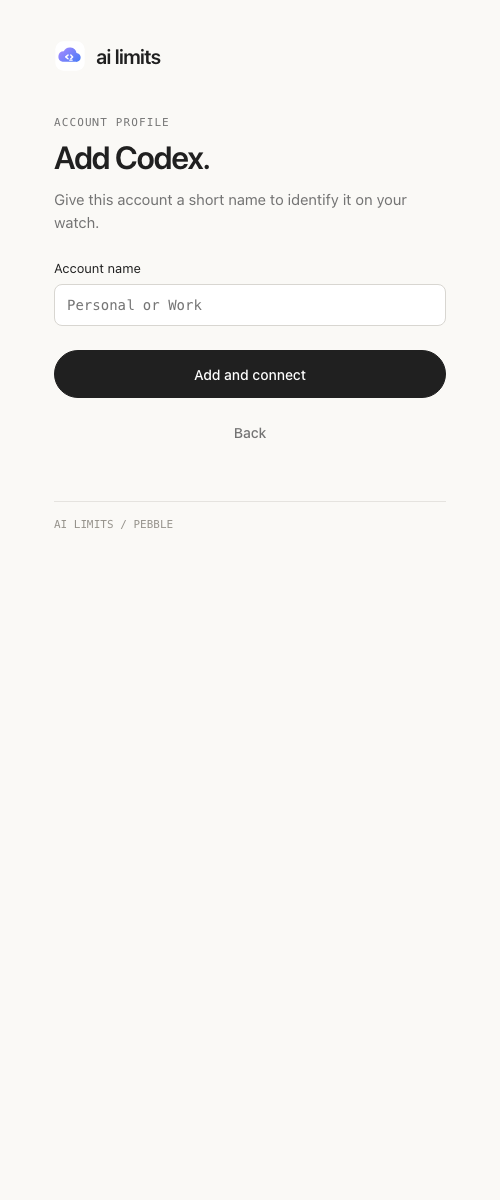
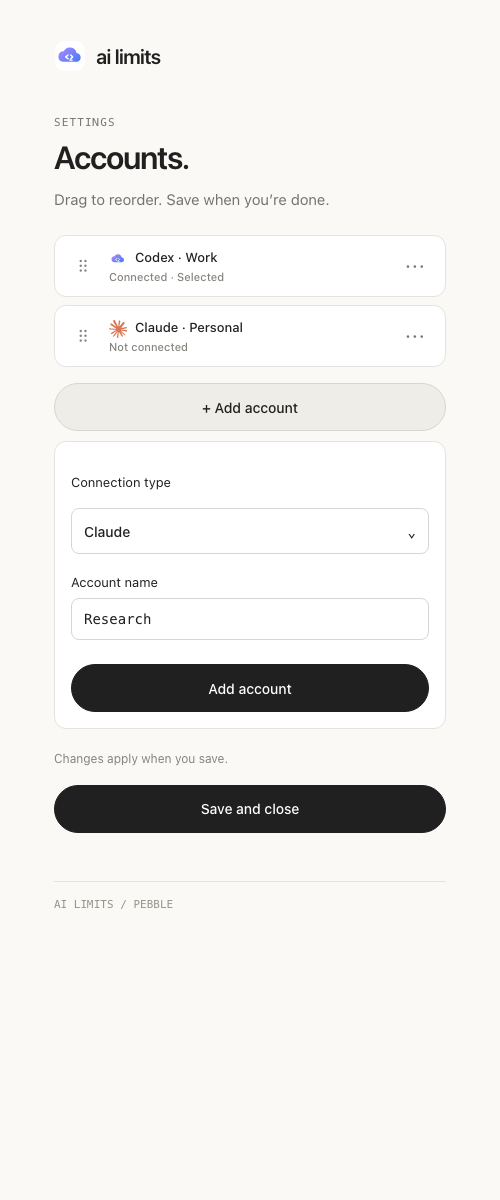
Prepare Pebble Store listing and previews

diff --git a/docs/verification.md b/docs/verification.md
@@ -9,7 +9,7 @@ This document records what the repository can verify automatically and which che
 | JavaScript, C lint, formatting, and tests | `npm run check` | Passing on 18 October 2026 (68 tests) | Tests cover companion account isolation and settings flows, serialized WebView login and expiry, clipboard fallback, resource serialization, and provider parsing. Profile-query tests also enforce one storage load per operation and no profile read when acknowledging an empty delivery queue. JavaScript tests do not execute the C renderer. |
 | Pebble app compilation | `.venv/bin/pebble build` | Passing on 18 October 2026 | Compiles and links all seven configured platforms: aplite, basalt, chalk, diorite, emery, flint, and gabbro. A successful build does not verify behavior on hardware. |
 | Quota display and watch animation | C lint and SDK build | Compiles; visual behavior not verified on device | The shared displayed-percentage policy is in `src/c/model/snapshot.h`. No automated test currently drives the watch renderer or animation timers. |
-| Browser settings rendering | Settings and serialization tests | Passing | Tests check initial account-button structure, escaped labels, generated script syntax, and WebView flows. Existing screenshots cover the account list and standalone pages, not the main inline editing flow. |
+| Browser settings rendering | Settings and serialization tests; `npm run generate:previews:phone` | Passing on 18 October 2026 | Tests check initial account-button structure, escaped labels, generated script syntax, and WebView flows. The screenshot generator checks overflow and exact 500 × 1200 PNG dimensions for account-list, inline account-creation, rename, connection, and device-login captures. |
 | Release packaging | `npm run package:release` and packaging regression test | Passing on 18 October 2026 | Actual SDK bundle: 603,323 → 88,901 bytes. Retained entries are compared byte for byte; ZIP CRCs, seven-platform fixtures, separate source map, repeatability, and invalid-input rejection are tested. Mobile installation of the compressed PBW is not yet verified. |
 | GitHub Actions CI and release publishing | `.github/workflows/ci.yml` plus reusable workflows | Configured; remote run pending | The orchestrator runs reusable check and build workflows in parallel for pushes to `main` and pull requests. Main pushes then call the release workflow after both succeed. npm, pip, the Pebble build environment, and SDK 4.33.1 are cached. Release versions use the `package.json` major/minor and commit count; reruns reuse the same version and skip duplicate publication. Pull requests do not publish. A successful GitHub Actions run is still needed to verify the hosted environment and release upload. |
 | Fresh-checkout setup | README environment creation, dependency installation, and package-copy instructions | Not exercised in a clean environment | The check and build results above use the existing local environment. Fresh setup also requires a separately installed Pebble SDK. |
@@ -26,6 +26,6 @@ This document records what the repository can verify automatically and which che
 
 ## Preview coverage
 
-All seven phone PNGs were checked to be 500 × 1200 pixels on 18 October 2026. They use demonstration data and do not verify provider authentication. Two show the account list; five show standalone pages retained in the code. Captures of the main inline account-creation, rename, connection, and device-login flows are still needed. Watch captures cover all six provider types on all seven SDK platforms, taken from their matching emulators with demonstration data on 18 October 2026. They do not verify provider authentication, physical hardware behavior, or current progress/sync animations. See [preview/README.md](../preview/README.md) for capture coverage and regeneration instructions.
+All six phone PNGs were generated at 500 × 1200 pixels on 18 October 2026. They use demonstration data and do not verify provider authentication. Two show the account list; four show inline account-creation, rename, connection, and device-login flows on the main settings page. Watch captures cover all six provider types on all seven SDK platforms, taken from their matching emulators with demonstration data on 18 October 2026. They do not verify provider authentication, physical hardware behavior, or current progress/sync animations. See [preview/README.md](../preview/README.md) for capture coverage and regeneration instructions.
 
 Run `npm run generate:previews:phone` after settings UI changes. Capture watch screenshots from the appropriate emulator or device and record the actual SDK platform in `preview/README.md`.

diff --git a/docs/store-listing.md b/docs/store-listing.md
@@ -1,0 +1,59 @@
+# Pebble Store listing draft
+
+This draft is ready to enter in the Pebble Developer Dashboard. The dashboard accepts up to five PNG, JPEG, or GIF screenshots per platform; each screenshot must match that platform's display size. All seven supported platform folders already contain current emulator captures in those dimensions.
+
+## Listing details
+
+| Dashboard field | Value |
+| --- | --- |
+| App title | AI Limits |
+| Category | Tools & Utilities |
+| Website URL | https://github.com/sspaceless/pebble-ai-limits |
+| Source code URL | https://github.com/sspaceless/pebble-ai-limits |
+| Support email | Leave blank to use the developer account email |
+| Companion app | None; setup uses the paired Pebble mobile app's app settings |
+| Small and large icons | Optional; allow the store to generate these from the app name |
+| Marketing banner | Optional; omit for the first listing |
+
+The package UUID, app type, version, and target platforms come from `package.json`. Keep the existing UUID for every release. Build the PBW from the release revision before uploading it.
+
+## Description
+
+The text below is plain text and is 929 characters, under the 1,600-character limit.
+
+```text
+AI Limits puts your AI quota status on your Pebble watch. Check subscription usage, configured API caps and reset times at a glance.
+
+Connect Codex, Claude / Claude Code, Gemini CLI, Claude API, Gemini API, or a trusted custom HTTPS quota endpoint. Create multiple named profiles and switch between them with the watch buttons. The companion refreshes data and sends it to the watch; cached values remain visible while an update runs.
+
+Subscription and CLI views show provider-reported remaining or used percentages and reset times. API views show configured request and token caps with their units; they do not claim to show live API consumption. Data refreshes when requested and every five minutes while the watch app is open.
+
+Requires a paired phone with the Pebble mobile app and an internet connection. Credentials are stored in the phone companion's local storage and are sent to the selected provider or custom endpoint.
+```
+
+## Screenshot sets
+
+Use these five real emulator captures for every supported SDK platform. Each platform's files are in `preview/watches/<platform>/`; do not resize or frame them.
+
+| SDK platform | Watch models | Screenshot files |
+| --- | --- | --- |
+| `aplite` | Classic / Steel | `codex.png`, `claude.png`, `gemini.png`, `claude-api.png`, `gemini-api.png` |
+| `basalt` | Time / Time Steel | `codex.png`, `claude.png`, `gemini.png`, `claude-api.png`, `gemini-api.png` |
+| `chalk` | Time Round | `codex.png`, `claude.png`, `gemini.png`, `claude-api.png`, `gemini-api.png` |
+| `diorite` | Pebble 2 | `codex.png`, `claude.png`, `gemini.png`, `claude-api.png`, `gemini-api.png` |
+| `emery` | Time 2 | `codex.png`, `claude.png`, `gemini.png`, `claude-api.png`, `gemini-api.png` |
+| `flint` | Pebble 2 Duo | `codex.png`, `claude.png`, `gemini.png`, `claude-api.png`, `gemini-api.png` |
+| `gabbro` | Round 2 | `codex.png`, `claude.png`, `gemini.png`, `claude-api.png`, `gemini-api.png` |
+
+The custom endpoint is described in the listing but does not fit within the five-screenshot limit alongside the main subscription and API examples. All six provider screens remain available in each preview folder. Captures use demonstration data and do not imply provider endorsement or verify authentication.
+
+## Dashboard handoff checklist
+
+- [ ] Create the watchapp with the title, category, website, and source URLs above.
+- [ ] Upload the PBW built from the intended release revision and publish that release.
+- [ ] Create one asset collection for each of the seven supported platforms, using its five matching screenshots and the description above.
+- [ ] Choose the desired listing visibility and publish the listing.
+
+Icons and a banner are optional in the current submission guide. The store can generate missing icons. This repository contains no store-ready banner, so omit it unless a designed marketing image is added later.
+
+Requirements checked against [Preparing a Submission](https://developer.repebble.com/guides/appstore-publishing/preparing-a-submission/) on 18 October 2026. The listing itself has not been created or published.

diff --git a/README.md b/README.md
@@ -207,11 +207,23 @@ npm run check:gemini
 
 These checks never print credentials or save them to this repository. The Gemini check refreshes an access token in memory if necessary, then reads account/quota metadata without changing the CLI credential file.
 
-The automated tests cover provider parsing, missing data, model selection, API caps versus remaining quota, Google pagination, OAuth imports/renewal, source timestamps, account isolation, migration, renaming, deletion, independent token rotation, login binding, cancellation, switching during requests, account reordering, staying on the settings page during edits, and atomic settings saves without overwriting renewed credentials. Codex has been checked against a real account. Retained emulator previews cover Claude and Gemini CLI on Classic, Time, and Time Round using simulated data. Current Codex, API-cap, progress-animation, and sync-rotation captures still need to be refreshed. Claude and API-provider adapters require account-specific device testing; the available local Gemini account returned HTTP 403 with `SUBSCRIPTION_REQUIRED` during the live check. This account cannot validate live Gemini quotas; eligible credentials are required. Full iOS 27 login/import and background behavior still require testing on a physical phone.
+The automated tests cover provider parsing, missing data, model selection, API caps versus remaining quota, Google pagination, OAuth imports/renewal, source timestamps, account isolation, migration, renaming, deletion, independent token rotation, login binding, cancellation, switching during requests, account reordering, staying on the settings page during edits, and atomic settings saves without overwriting renewed credentials. Codex has been checked against a real account. Current emulator previews cover all six provider screens on all seven SDK platforms using demonstration data; they do not verify authentication. Current progress and sync animation captures still need to be refreshed. Claude and API-provider adapters require account-specific device testing; the available local Gemini account returned HTTP 403 with `SUBSCRIPTION_REQUIRED` during the live check. This account cannot validate live Gemini quotas; eligible credentials are required. Full iOS 27 login/import and background behavior still require testing on a physical phone.
 
 ## Preview assets
 
-[`preview/`](preview/README.md) groups watch screenshots and GIF animations by SDK platform under `watches/`; phone settings screenshots live under `phone/`, with standalone icon studies under `icons/` only when needed. Keep previews as images rather than saved HTML pages. Phone previews use PNG at a fixed 500 × 1200 pixels and demo data. Two show the account list; the other five use standalone page renderers still present in the code, so they do not show the inline editing flow used by the main settings page. Run `npm run generate:previews:phone` to regenerate the full set when the interface changes.
+[`preview/`](preview/README.md) groups watch screenshots and GIF animations by SDK platform under `watches/`; phone settings screenshots live under `phone/`, with standalone icon studies under `icons/` only when needed. Keep previews as images rather than saved HTML pages. Phone previews use PNG at a fixed 500 × 1200 pixels and demonstration data. Two show the account list; four show account creation, rename, connection, and device login inline on the main settings page. Run `npm run generate:previews:phone` to regenerate the full set when the interface changes.
+
+### Watch app preview
+
+These Time 2 emulator captures show the six provider screens with demonstration data. They do not verify provider authentication. See [all platform screenshots](preview/README.md).
+
+| Codex | Claude | Gemini CLI |
+| --- | --- | --- |
+| ![Codex quota screen](preview/watches/emery/codex.png) | ![Claude quota screen](preview/watches/emery/claude.png) | ![Gemini CLI quota screen](preview/watches/emery/gemini.png) |
+
+| Claude API | Gemini API | Custom endpoint |
+| --- | --- | --- |
+| ![Claude API caps screen](preview/watches/emery/claude-api.png) | ![Gemini API caps screen](preview/watches/emery/gemini-api.png) | ![Custom quota screen](preview/watches/emery/custom.png) |
 
 ## Sources
 

diff --git a/preview/README.md b/preview/README.md
@@ -12,7 +12,7 @@ preview/
 │   ├── emery/    Time 2
 │   ├── flint/    Pebble 2 Duo
 │   └── gabbro/   Round 2
-└── phone/        Account-list and standalone-page screenshots
+└── phone/        Account-list and inline-flow screenshots
 ```
 
 ## Watch platforms
@@ -33,9 +33,9 @@ For new platforms, add their first real screenshot under `watches/<SDK platform>
 
 ## Phone screenshots
 
-[`phone/`](phone/) contains seven screenshots generated on 17 October 2026 from page renderers exported by `src/pkjs/config.js`. `settings.png` and `connected.png` show the account list. The other five captures use standalone account-creation, rename, device-code, and Claude API/Gemini connection pages still present in the code. The main settings page now performs these actions inline, so those five captures do not represent its current editing flow. Capturing the inline flows requires updating the generator scenarios first; rerunning the existing command alone will reproduce the standalone pages.
+[`phone/`](phone/) contains six screenshots generated on 18 October 2026 from the main settings page exported by `src/pkjs/config.js`. `settings.png` and `connected.png` show the account list. `add-account.png`, `rename-account.png`, `connection.png`, and `login.png` show the account-creation, rename, Claude connection, and Codex device-login flows inline on that same page. The device-login screen uses a simulated `DEMO-ONLY` code; no provider authentication is performed.
 
-The account-list captures show the normal client-side rendering after selecting a demo profile. Initial and subsequent account-list rendering now both create real nested markup while escaping account labels. All names and the `DEMO-ONLY` login code are demonstration data; no provider authentication was performed.
+The account-list captures show the normal client-side rendering after selecting a demo profile. Initial and subsequent account-list rendering both create real nested markup while escaping account labels. All names and the login code are demonstration data.
 
 All phone previews use the same format and canvas: **PNG, 500 × 1200 pixels, scale factor 1**. Pages keep their natural layout at the top of the shared viewport; shorter pages retain the normal page background below their content. Captures are not stretched or cropped.
 

diff --git a/docs/TODO.md b/docs/TODO.md
@@ -34,9 +34,9 @@
 - [x] Organize watch previews by SDK platform; separate phone screenshots and icon studies.
 - [x] Standardize all phone previews as 500 × 1200 PNGs with a repeatable, overflow-checked generator.
 
-- [ ] Prepare all required metadata and assets for the Pebble Store listing.
+- [x] Prepare all required metadata and assets for the Pebble Store listing; see [listing draft](store-listing.md). The draft covers all seven platform collections using current emulator screenshots; dashboard submission and publishing remain release steps.
 - [x] Document development checks and build instructions in the README.
-- [ ] Add an embedded project preview to the GitHub README.
-- [ ] Update the phone-preview generator to capture the main settings page's inline account-creation, rename, connection, and device-login flows, then regenerate the screenshots.
+- [x] Add an embedded project preview to the GitHub README using current Time 2 emulator captures for all six provider screens.
+- [x] Update the phone-preview generator to capture the main settings page's inline account-creation, rename, connection, and device-login flows, then regenerate the screenshots.
 - [ ] Capture current progress and sync animations. All six provider screens are captured on all seven SDK platforms; see [`preview/README.md`](../preview/README.md).
 - [x] Remove obsolete preview assets and old icon studies; regenerate phone previews and fix stale paths in `assets/BRANDS.md`.
